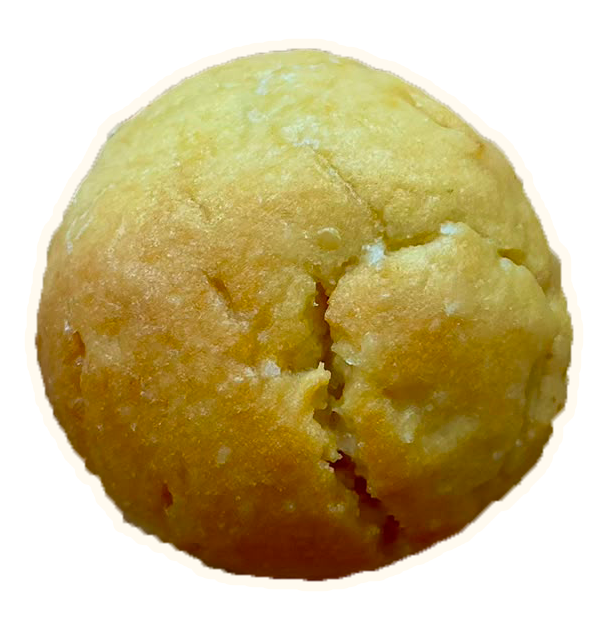
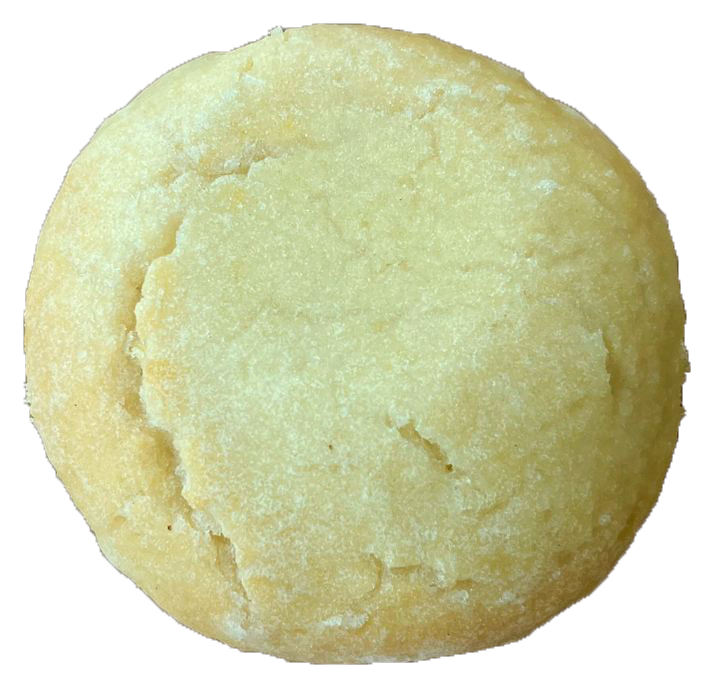
Fix carousel wrap glitch, straighten cookie cards
Wrap check now runs before each scroll step instead of via a scroll
listener racing the smooth-scroll animation. Dropped tilt and hover
transform from the carousel cards per feedback that tilt was
implicated in the glitch.

diff --git a/src/pages/Home.tsx b/src/pages/Home.tsx
@@ -8,7 +8,6 @@ import { shops } from '../data/shops'
 
 const STEP_INTERVAL_MS = 3000
 const RESUME_DELAY_MS = 2000
-const CARD_TILTS = [-2, 2, -1.5, 2.5, -1]
 
 const wavePath =
   'M0,32L48,37.3C96,43,192,53,288,58.7C384,64,480,64,576,53.3C672,43,768,21,864,21.3C960,21,1056,43,1152,48C1248,53,1344,43,1392,37.3L1440,32L1440,74L1392,74C1344,74,1248,74,1152,74C1056,74,960,74,864,74C768,74,672,74,576,74C480,74,384,74,288,74C192,74,96,74,48,74L0,74Z'
@@ -58,26 +57,18 @@ function Home() {
     const track = trackRef.current
     if (!track) return
 
-    const wrap = () => {
-      const half = track.scrollWidth / 2
-      if (track.scrollLeft >= half) track.scrollLeft -= half
-      else if (track.scrollLeft <= 0) track.scrollLeft += half
-    }
-
     const step = () => {
       if (pausedRef.current) return
       const firstCard = track.children[0] as HTMLElement | undefined
       if (!firstCard) return
       const gap = parseFloat(getComputedStyle(track).columnGap || '0')
+      const half = track.scrollWidth / 2
+      if (track.scrollLeft >= half - 1) track.scrollLeft -= half
       track.scrollBy({ left: firstCard.offsetWidth + gap, behavior: 'smooth' })
     }
 
     const intervalId = setInterval(step, STEP_INTERVAL_MS)
-    track.addEventListener('scroll', wrap)
-    return () => {
-      clearInterval(intervalId)
-      track.removeEventListener('scroll', wrap)
-    }
+    return () => clearInterval(intervalId)
   }, [])
 
   const pause = () => {
@@ -98,7 +89,10 @@ function Home() {
     const firstCard = track.children[0] as HTMLElement | undefined
     if (!firstCard) return
     const gap = parseFloat(getComputedStyle(track).columnGap || '0')
+    const half = track.scrollWidth / 2
     pause()
+    if (direction === 1 && track.scrollLeft >= half - 1) track.scrollLeft -= half
+    else if (direction === -1 && track.scrollLeft <= 1) track.scrollLeft += half
     track.scrollBy({ left: direction * (firstCard.offsetWidth + gap), behavior: 'smooth' })
     scheduleResume()
   }
@@ -166,8 +160,7 @@ function Home() {
                 <Link
                   key={`${cookie.slug}-${index}`}
                   to={`/cookies#${cookie.slug}`}
-                  style={{ '--tilt': `${CARD_TILTS[index % CARD_TILTS.length]}deg` } as React.CSSProperties}
-                  className="sticker-card flex w-72 shrink-0 flex-col items-center gap-3 rounded-2xl border-[3px] border-cookie-charcoal bg-white p-5 text-center shadow-[6px_6px_0_var(--color-cookie-charcoal)]"
+                  className="flex w-72 shrink-0 flex-col items-center gap-3 rounded-2xl border-[3px] border-cookie-charcoal bg-white p-5 text-center shadow-[6px_6px_0_var(--color-cookie-charcoal)]"
                 >
                   <img
                     src={cookie.image}
